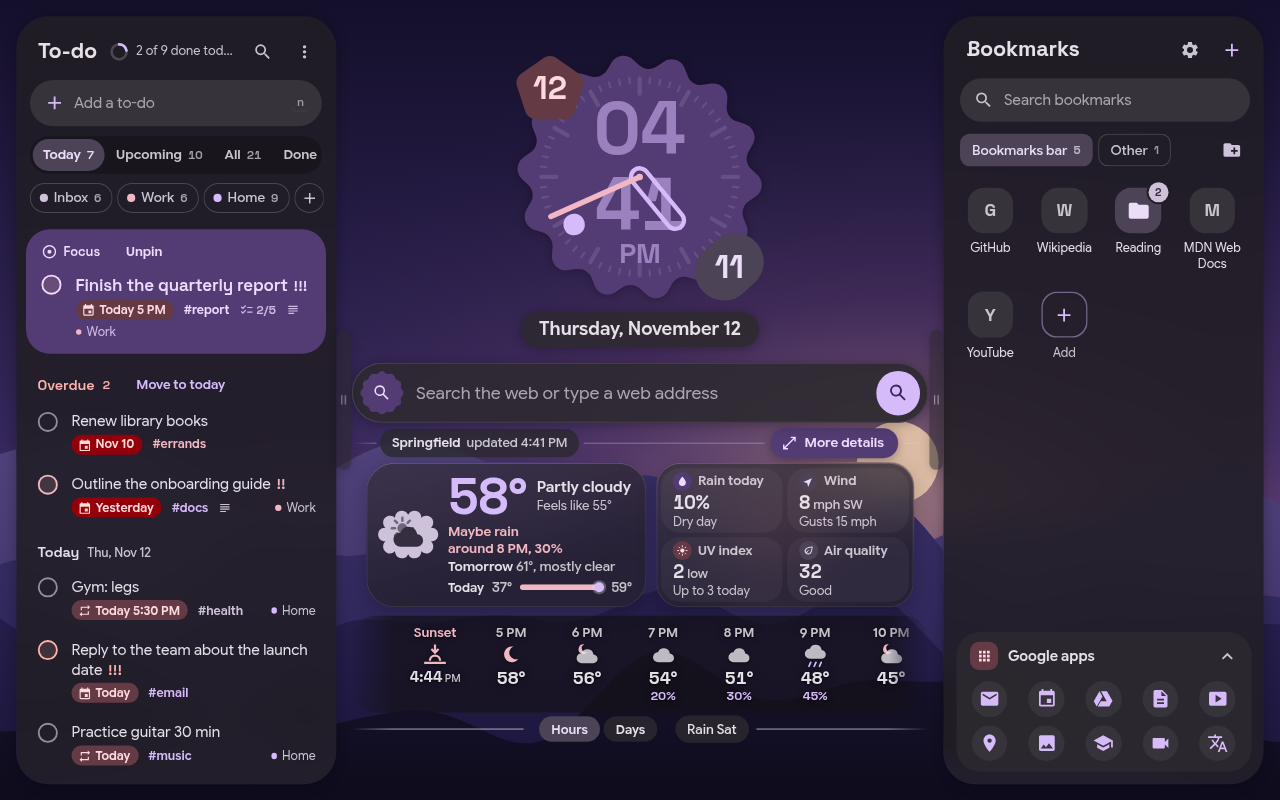
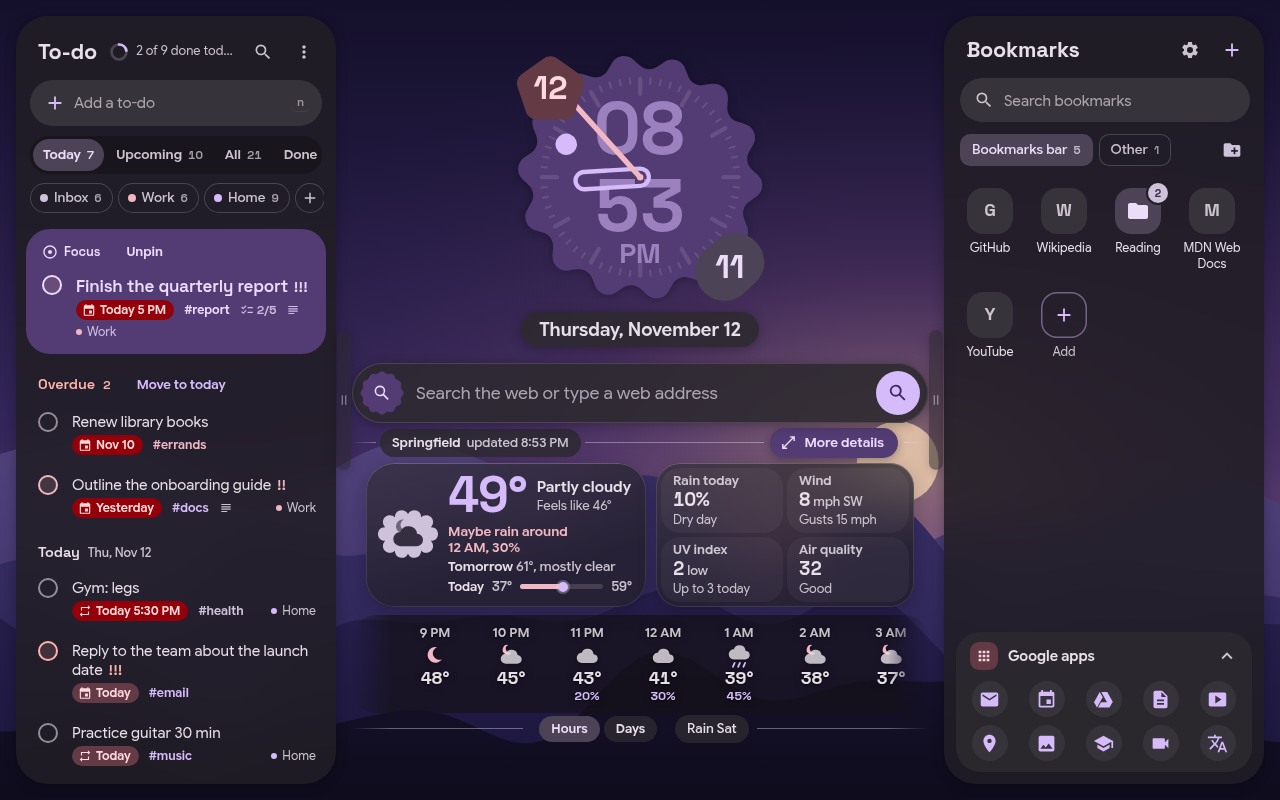
Only the Dusk wallpaper, its glow centered on the sun
Dune, Tide, Fern, Aurora and Bloom are removed (a saved one falls back to Dusk; they stay in the git history).
Dusk's halo was centered a little below and beside the sun; it is now centered on it. Store and docs
screenshots retaken.

diff --git a/extension/scripts/lemon.js b/extension/scripts/lemon.js
@@ -167,7 +167,7 @@
     // ---- look ----------------------------------------------------------------------------------------------------
     // The built-in wallpapers (wallpapers/<id>.svg, drawn by tools/wallpapers.py) and the first-run default, whose
     // scheme is worked out ahead of time (tonal spot, dark, from the picture) so the very first tab paints in it.
-    const BUILTINS = [["dusk", "Dusk"], ["dune", "Dune"], ["tide", "Tide"], ["fern", "Fern"], ["aurora", "Aurora"], ["bloom", "Bloom"]];
+    const BUILTINS = [["dusk", "Dusk"]];   // only Dusk is kept (2026-11-12); a saved Dune, Tide, ... falls back to it
     const DEFAULT_COLORS = {
         primary: "#d6bbfb", on_primary: "#3b255b", primary_container: "#523c73", on_primary_container: "#eddcff",
         secondary: "#cec2db", on_secondary: "#352d40", secondary_container: "#4c4357",

diff --git a/tools/wallpapers.py b/tools/wallpapers.py
@@ -1,5 +1,6 @@
 #!/usr/bin/env python3
-"""Make the built-in wallpapers (extension/wallpapers/*.svg).
+"""Make the built-in wallpaper (extension/wallpapers/dusk.svg). Only Dusk is kept (owner 2026-11-12: "Only Dusk");
+Dune, Tide, Fern, Aurora and Bloom are in the git history if they are ever wanted back.
 
     python3 -I tools/wallpapers.py
 
@@ -48,7 +49,10 @@ def rad(gid, stops, cx=0.5, cy=0.5, r=0.5):
 def layered(name, seed, sky, glow, layers, sun=None):
     """Sky gradient, an optional low sun or moon with a halo, then ridges from far (light) to near (dark)."""
     rnd = random.Random(seed)
-    defs = lin("sky", sky) + rad("glow", glow[1], *glow[0])
+    cx, cy, r = glow[0]
+    if sun:   # the halo is centered on the sun itself (owner 2026-11-12: "the light gradient centered with the sun")
+        cx, cy = round(sun[0] / W, 4), round(sun[1] / H, 4)
+    defs = lin("sky", sky) + rad("glow", glow[1], cx, cy, r)
     body = f'<rect width="{W}" height="{H}" fill="url(#sky)"/><rect width="{W}" height="{H}" fill="url(#glow)"/>'
     if sun:
         x, y, r, c = sun
@@ -56,44 +60,6 @@ def layered(name, seed, sky, glow, layers, sun=None):
     for i, (base, amp, color) in enumerate(layers):
         defs += lin(f"l{i}", [(0, color[0]), (1, color[1])])
         body += f'<path d="{ridge(rnd, base, amp)}" fill="url(#l{i})"/>'
-    return svg(defs, body)
-
-
-def aurora():
-    rnd = random.Random(7)
-    defs = lin("sky", [(0, "#0b0614"), (0.55, "#1a0b24"), (1, "#2a0f2c")])
-    body = f'<rect width="{W}" height="{H}" fill="url(#sky)"/>'
-    for i in range(140):
-        x, y, r = rnd.uniform(0, W), rnd.uniform(0, H * 0.62), rnd.choice([0.8, 1, 1.2, 1.6])
-        body += f'<circle cx="{x:.0f}" cy="{y:.0f}" r="{r}" fill="#fbe6f2" opacity="{rnd.uniform(0.25, 0.8):.2f}"/>'
-    ribbons = [("#ff7ab6", 250, 90), ("#c86bff", 330, 70), ("#ff9f8a", 410, 55)]
-    for i, (c, base, amp) in enumerate(ribbons):
-        defs += lin(f"r{i}", [(0, c, 0), (0.35, c, 0.55), (1, c, 0)])
-        top = ridge(rnd, base, amp, waves=3)
-        # A curtain: the ridge line, then straight down 260px, so the light hangs like an aurora.
-        d = top.rsplit(" L", 2)[0]
-        body += f'<path d="{d} L{W + 40} {base + 260} L-40 {base + 260} Z" fill="url(#r{i})" opacity="0.8"/>'
-    defs += lin("hill", [(0, "#3a1636"), (1, "#12060f")])
-    body += f'<path d="{ridge(rnd, 760, 40)}" fill="url(#hill)"/>'
-    return svg(defs, body)
-
-
-def bloom():
-    """Soft overlapping Material-like rounded shapes in coral and wine, lit from the top left."""
-    rnd = random.Random(11)
-    defs = lin("bg", [(0, "#2b0d14"), (1, "#14060a")], x2=1, y2=1)
-    body = f'<rect width="{W}" height="{H}" fill="url(#bg)"/>'
-    blobs = [(330, 260, 330, "#ff6f61", 0.55), (1180, 230, 260, "#ff9a7b", 0.4), (900, 720, 420, "#c2185b", 0.45),
-             (180, 820, 260, "#ff8a65", 0.35), (1500, 760, 300, "#ad1457", 0.4), (760, 380, 200, "#ffb199", 0.3)]
-    for i, (cx, cy, r, c, a) in enumerate(blobs):
-        defs += rad(f"b{i}", [(0, c, a), (0.7, c, a * 0.35), (1, c, 0)])
-        lobes, rot = rnd.choice([6, 7, 8, 9]), rnd.uniform(0, math.tau)
-        pts = []
-        for k in range(73):
-            t = k / 72 * math.tau
-            rr = r * (1 + 0.08 * math.cos(lobes * t + rot))
-            pts.append(f"{cx + rr * math.cos(t):.1f} {cy + rr * math.sin(t):.1f}")
-        body += f'<path d="M{" L".join(pts)} Z" fill="url(#b{i})"/>'
     return svg(defs, body)
 
 
@@ -105,28 +71,6 @@ WALLPAPERS = {
         [(560, 70, ("#5b4a8c", "#3d3170")), (630, 60, ("#3f3474", "#2a2257")),
          (710, 55, ("#2a2257", "#1b1640")), (800, 45, ("#17122f", "#0d0a1d"))],
         sun=(1090, 520, 46, "#ffd9bd")),
-    # Warm desert dunes under an amber evening.
-    "dune": lambda: layered("dune", 5,
-        [(0, "#1f0f08"), (0.5, "#5a2a12"), (1, "#c2672b")],
-        ((0.3, 0.55, 0.6), [(0, "#ffb26b", 0.5), (1, "#5a2a12", 0)]),
-        [(560, 35, ("#b8612a", "#7a3816")), (640, 45, ("#93461c", "#5c2a10")),
-         (730, 40, ("#6e3213", "#401c0a")), (820, 30, ("#3a1a09", "#1f0d05"))]),
-    # Deep sea and rolling teal waves.
-    "tide": lambda: layered("tide", 9,
-        [(0, "#03161c"), (0.6, "#0b3a44"), (1, "#14606a")],
-        ((0.5, 0.25, 0.7), [(0, "#7fe3d6", 0.35), (1, "#0b3a44", 0)]),
-        [(470, 25, ("#1d7a80", "#125259")), (560, 30, ("#14606a", "#0c434b")),
-         (660, 35, ("#0d4851", "#08313a")), (770, 30, ("#072a31", "#03161c"))]),
-    # Misty green hills.
-    "fern": lambda: layered("fern", 13,
-        [(0, "#0d1a10"), (0.5, "#24402a"), (1, "#5f8a5a")],
-        ((0.75, 0.3, 0.6), [(0, "#e3f2b4", 0.35), (1, "#24402a", 0)]),
-        [(520, 60, ("#4f7a4c", "#365c37")), (610, 55, ("#3a6139", "#264427")),
-         (700, 50, ("#27452a", "#18301b")), (800, 40, ("#132816", "#0a150c"))]),
-    # Rose and violet light over a dark ridge, with stars.
-    "aurora": aurora,
-    # Soft coral shapes on wine.
-    "bloom": bloom,
 }
 
 if __name__ == "__main__":

diff --git a/store/LISTING.md b/store/LISTING.md
@@ -34,7 +34,7 @@ What is on the page
 - To-do column: lists, sections, due dates and times, priorities, tags, subtasks, notes and repeating to-dos (daily, weekdays, weekly, monthly). Search your to-dos and keep a focus item.
 - Bookmarks column: browse, search, add, edit, move and delete your Chrome bookmarks in a grid or a list, with site icons from Chrome.
 - Google apps: quick links to Gmail, Calendar, Drive, Docs, YouTube, Maps, Photos, Classroom, Meet and Translate.
-- Colors: pick one of the built-in wallpapers or upload your own picture, and the whole page is colored from it with Material You colors.
+- Colors: keep the built-in Dusk wallpaper or upload your own picture, and the whole page is colored from it with Material You colors.
 - Layout: fold or widen the side columns, set panel opacity, and hide the parts you do not use.
 - Settings: units, location, search engine, suggestions, seconds on the clock, and export or import of your data as a file.
 

diff --git a/README.md b/README.md
@@ -19,7 +19,7 @@ bookmarks, all in a dark Material 3 expressive look whose colors come from your 
 - **To-do list** with lists, sections, tags, due dates and times, repeats, subtasks, priorities, focus and natural
   date entry ("Friday 5 pm").
 - **Bookmarks** from Chrome, as a grid or a list, with folders, search and the Google apps.
-- **Wallpapers and colors:** six built-in wallpapers or your own picture, a Dim slider, and a Material You dark
+- **Wallpapers and colors:** the built-in Dusk wallpaper or your own picture, a Dim slider, and a Material You dark
   color scheme made from the picture on your device.
 - Side columns fold to an icon or widen to half or the whole page. Keyboard shortcuts (press `?`).
 
